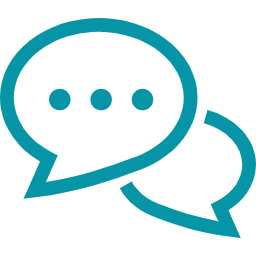
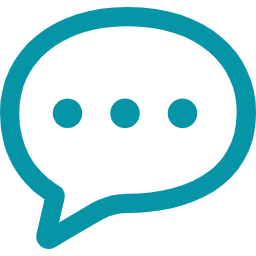
20210601

diff --git a/app/templates/app/index.html b/app/templates/app/index.html
@@ -364,7 +364,7 @@
 
 <div class="picmenu">
     <ul id="table-ul">
-        <li onmouseover="mouseOn1();" onmouseout="mouseOff1();">
+        <li id="table-ul-all" onmouseover="mouseOn1();" onmouseout="mouseOff1();">
             {% if area == 'bazaar' %}
                 <a href="{% url 'index' 'bazaar' 'all' %}">
             {% elif area == 'adventure' %}
@@ -407,12 +407,11 @@
             {% else %}
                 <a href="{% url 'index' 'all' 'all' %}">
             {% endif %}
-                <!-- <img src="{% static 'img/box.png' %}" alt="全て" class="icon-category"> -->
                 <img src="{% static 'img/star.png' %}" alt="" class="icon-category" id="star" />
                 <p>全て</p>
             </a>
         </li>
-        <li>
+        <li onmouseover="mouseOn2();" onmouseout="mouseOff2();">
             {% if area == 'bazaar' %}
                 <a href="{% url 'index' 'bazaar' 'story' %}">
             {% elif area == 'adventure' %}
@@ -430,12 +429,11 @@
             {% else %}
                 <a href="{% url 'index' 'all' 'story' %}">
             {% endif %}
-                <!-- <img src="{% static 'img/memo.png' %}" alt="ストーリー" class="icon-category"> -->
-                <img src="{% static 'img/memo.png' %}" alt="" class="icon-category" id="memo" onmouseover="mouseOn();" onmouseout="mouseOff();" />
+                <img src="{% static 'img/memo.png' %}" alt="" class="icon-category" id="memo" />
                 <p>ストーリー</p>
             </a>
         </li>
-        <li id="target">
+        <li  onmouseover="mouseOn3();" onmouseout="mouseOff3();">
             {% if area == 'bazaar' %}
                 <a href="{% url 'index' 'bazaar' 'mickey' %}">
             {% elif area == 'adventure' %}
@@ -478,8 +476,7 @@
             {% else %}
                 <a href="{% url 'index' 'all' 'mickey' %}">
             {% endif %}
-                <!-- <img src="{% static 'img/mickey_b.png' %}" alt="隠れミッキー" class="icon-category"> -->
-                <img src="{% static 'img/mickey_b.png' %}" alt="" class="icon-category" id="mickey" onmouseover="mouseOn();" onmouseout="mouseOff();" />
+                <img src="{% static 'img/mickey.png' %}" alt="" class="icon-category" id="mickey" />
                 <p>隠れミッキー</p>
             </a>
         </li>
@@ -526,14 +523,11 @@
             {% else %}
                 <a href="{% url 'index' 'all' 'trivia' %}">
             {% endif %}
-                <!-- <img src="{% static 'img/bulb.png' %}" alt="" class="icon-category default"> -->
-                <!-- <img src="{% static 'img/bulb_white.png' %}" alt="" class="icon-category activate"> -->
-                <!-- <img src="{% static 'img/bulb_white.png' %}" alt="" class="icon-category" id="bulb1" onmouseover="mouseOn2();" onmouseout="mouseOff2();" /> -->
                 <img src="{% static 'img/bulb.png' %}" alt="" class="icon-category" id="bulb1" />
                 <p>豆知識</p>
             </a>
         </li>
-        <li>
+        <li onmouseover="mouseOn5();" onmouseout="mouseOff5();">
             {% if area == 'bazaar' %}
                 <a href="{% url 'index' 'bazaar' 'other' %}">
             {% elif area == 'adventure' %}
@@ -576,8 +570,7 @@
             {% else %}
                 <a href="{% url 'index' 'all' 'other' %}">
             {% endif %}
-                <!-- <img src="{% static 'img/bookmark.png' %}" alt="その他" class="icon-category"> -->
-                <img src="{% static 'img/bookmark_green.png' %}" alt="" class="icon-category" id="bookmark" onmouseover="mouseOn();" onmouseout="mouseOff();" />
+                <img src="{% static 'img/comment.png' %}" alt="" class="icon-category" id="comment" />
                 <p>その他</p>
             </a>
         </li>
@@ -619,9 +612,9 @@
             {% elif post.category|stringformat:"s" == "豆知識" %}
                 <img src="{% static 'img/bulb.png' %}" alt="book" class="article-category-icon bulb">
             {% elif post.category|stringformat:"s" == "その他" %}
-                <img src="{% static 'img/bookmark_green.png' %}" alt="book" class="article-category-icon">
+                <img src="{% static 'img/comment.png' %}" alt="book" class="article-category-icon">
             {% else %}
-                <img src="{% static 'img/memo.png' %}" alt="なんも" class="article-category-icon">
+                <img src="{% static 'img/search.png' %}" alt="なんも" class="article-category-icon">
             {% endif %}
             </div>
         </div>
@@ -676,9 +669,24 @@
         obj.src = "{% static 'img/star_white.png' %}";
     }
 
+    function mouseOn2(){
+        var obj = document.getElementById("memo");
+        obj.src = "{% static 'img/memo_white.png' %}";
+    }
+
+    function mouseOn3(){
+        var obj = document.getElementById("mickey");
+        obj.src = "{% static 'img/mickey_white.png' %}";
+    }
+
     function mouseOn4(){
         var obj = document.getElementById("bulb1");
         obj.src = "{% static 'img/bulb_white.png' %}";
+    }
+
+    function mouseOn5(){
+        var obj = document.getElementById("comment");
+        obj.src = "{% static 'img/comment_white.png' %}";
     }
 
     function mouseOff1(){
@@ -686,14 +694,49 @@
         obj.src = "{% static 'img/star.png' %}";
     }
 
+    function mouseOff2(){
+        var obj = document.getElementById("memo");
+        obj.src = "{% static 'img/memo.png' %}";
+    }
+
+    function mouseOff3(){
+        var obj = document.getElementById("mickey");
+        obj.src = "{% static 'img/mickey.png' %}";
+    }
+
     function mouseOff4(){
         var obj = document.getElementById("bulb1");
         obj.src = "{% static 'img/bulb.png' %}";
     }
 
+    function mouseOff5(){
+        var obj = document.getElementById("comment");
+        obj.src = "{% static 'img/comment.png' %}";
+    }
+
     function color1(){
+        var obj = 
         document.bgColor = "#eeeeff"
     }
+
+// 色取得のコード
+    function color1(){
+        var url = new URLSearchParams(window.location.href);
+        var params = url.searchParams;
+        if (params.has("all")){
+            documents.getElementById("table-ul-all").style.backgroundColor = "#dee2e6"
+            console.log("allデバッグ")
+        } else if (params.has("story")){
+            documents.bgColor = red
+        } else if (params.has("mickey")){
+            documents.bgColor = red
+        } else if (params.has("trivia")){
+            documents.bgColor = red
+        } else if (paramas.has("other")){
+            documents.bgColor = red
+        }
+    }
+
 </script>
 
 

diff --git a/app/templates/app/post_detail.html b/app/templates/app/post_detail.html
@@ -20,12 +20,14 @@
 <img class="mx-auto d-block img-fluid rounded detail-img mb-1" src="{{ post_data.image.url }}" alt="">         
 {% endif %}
 <div class="article-category-icon">
-    {% if post_data.category == 'ストーリー' %}
-        <img src="{% static 'img/box.png' %}" alt="book" class="">
-    {% elif post_data.category == '隠れミッキー' %}
-        <img src="{% static 'img/movie.png' %}" alt="book" class="">
-    {% elif post_data.category == '豆知識' %}
-        <img src="{% static 'img/memo.png' %}" alt="book" class="">
+    {% if post_data.category|stringformat:"s" == 'ストーリー' %}
+        <img src="{% static 'img/memo.png' %}" alt="book" class="article-category-icon">
+    {% elif post_data.category|stringformat:"s" == '隠れミッキー' %}
+        <img src="{% static 'img/mickey.png' %}" alt="book" class="article-category-icon">
+    {% elif post_data.category|stringformat:"s" == '豆知識' %}
+        <img src="{% static 'img/bulb.png' %}" alt="book" class="article-category-icon">
+    {% elif post_data.category|stringformat:"s" == 'その他' %}
+        <img src="{% static 'img/comment.png' %}" alt="book" class="article-category-icon">
     {% else %}
         <img src="{% static 'img/search.png' %}" alt="なんも" class="article-category-icon">
     {% endif %}

diff --git a/app/static/css/style.css b/app/static/css/style.css
@@ -191,7 +191,7 @@ a:hover {
 }
 
 #table-ul {
-    /* background-color: #3ae; */
+    background-color: #3ae;
     border: 1px solid #dee2e6;
     border-radius: 20px;
     will-change: transform;
@@ -203,6 +203,10 @@ a:hover {
     box-shadow: rgba(0, 0, 0, 0.15) 0px 2px 8px;
     list-style-type: none;
     overflow: hidden;
+}
+
+#table-ul-all {
+    background-color:red;
 }
 
 #table-ul li {
@@ -229,8 +233,9 @@ a:hover {
     transition: 0.3s;
 }
 
-#table-ul li a:hover
-
+#table-ul p{
+    margin: 10px;
+}
 /* #table-ul li:last-child {
     border-right: 0;   
 } */
